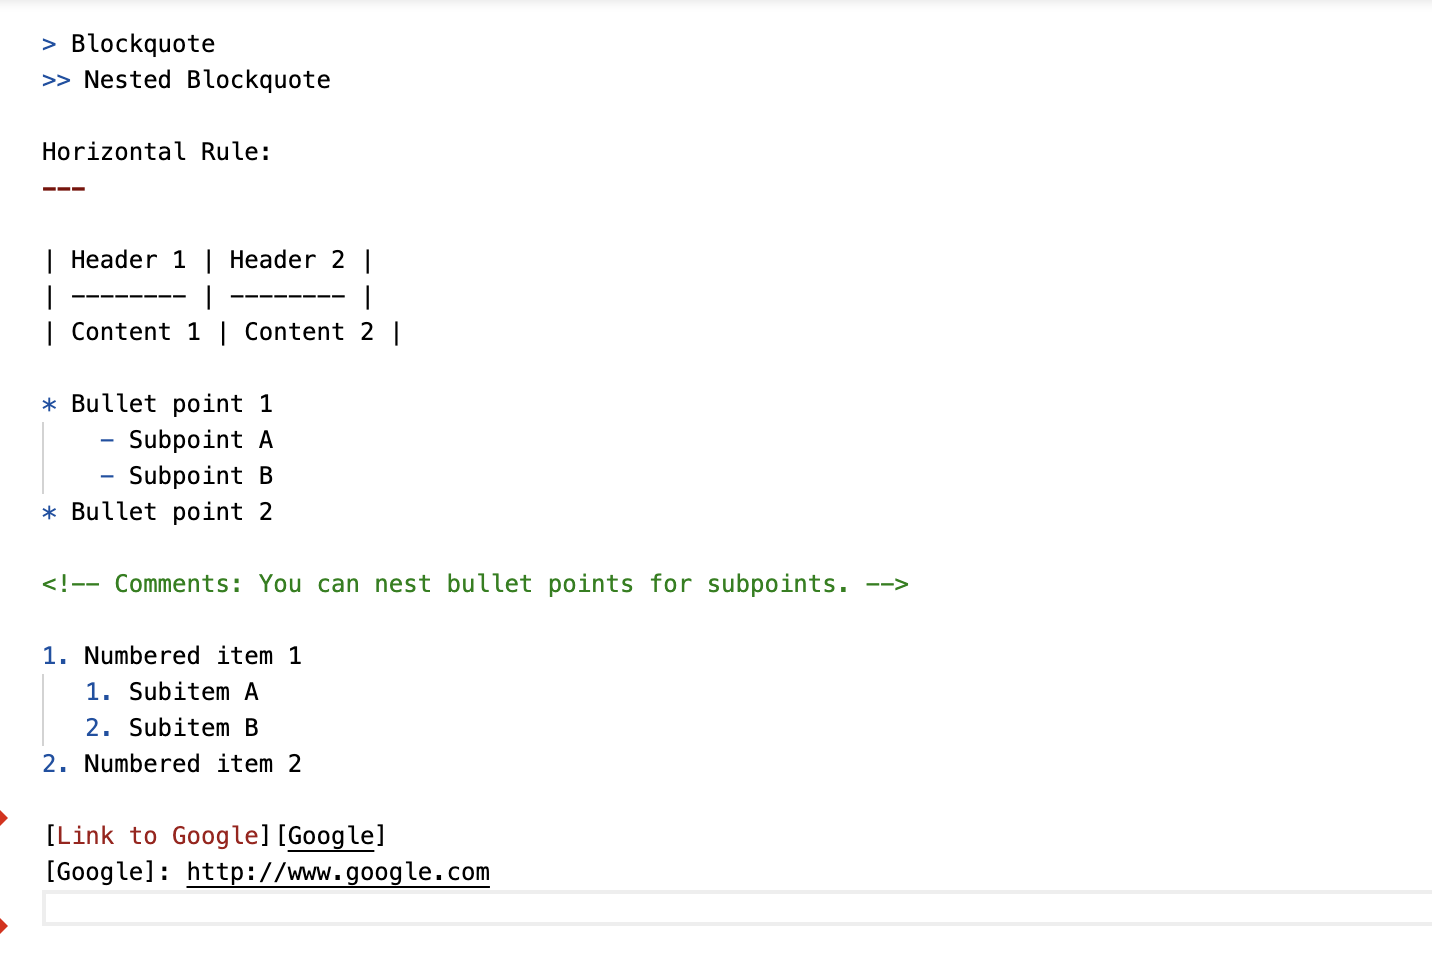
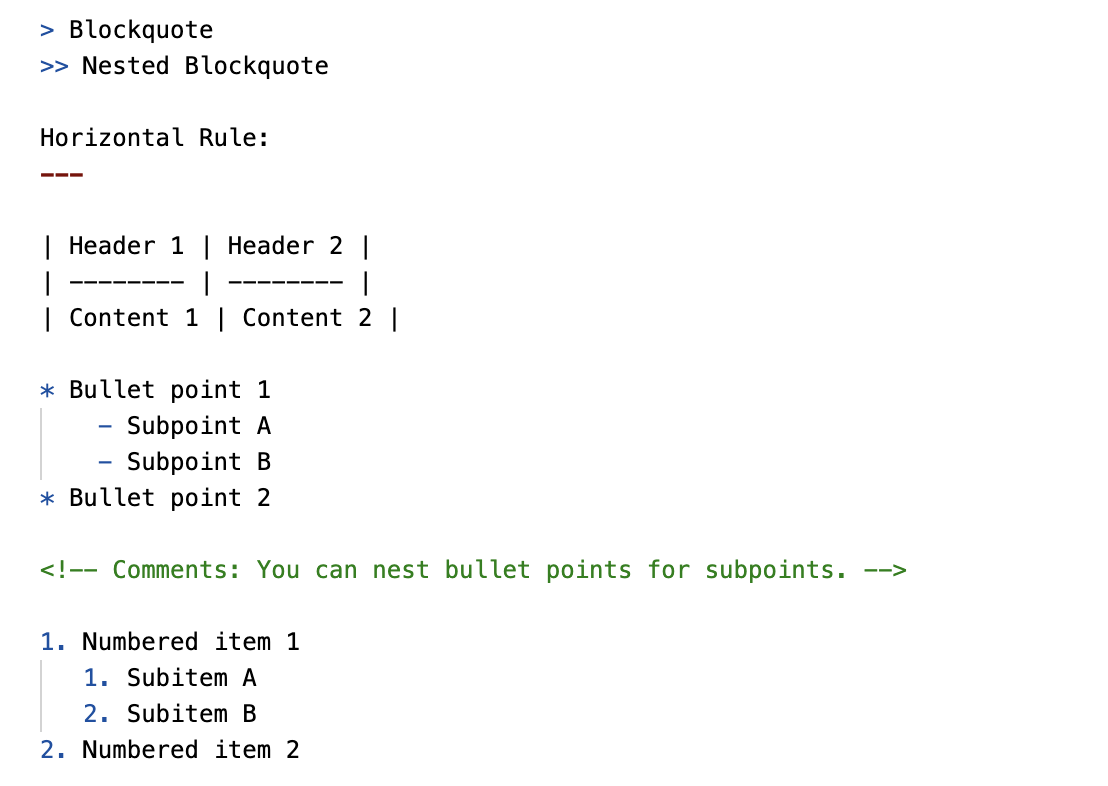
update Readme.md

diff --git a/README.md b/README.md
@@ -128,8 +128,6 @@ Horizontal Rule:
    2. Subitem B
 2. Numbered item 2
 
-[Link to Google][Google]
-[Google]: http://www.google.com
 
 
 
